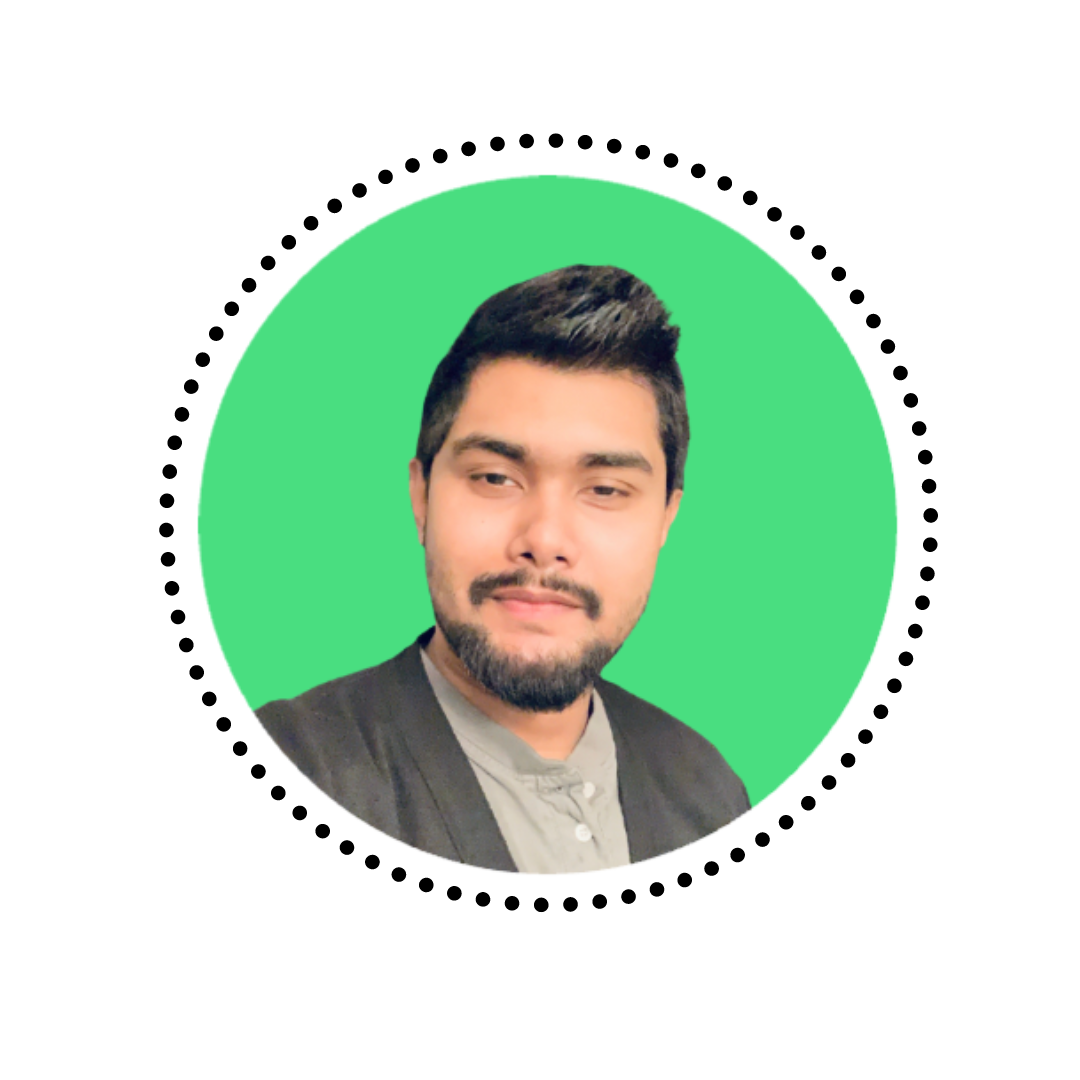
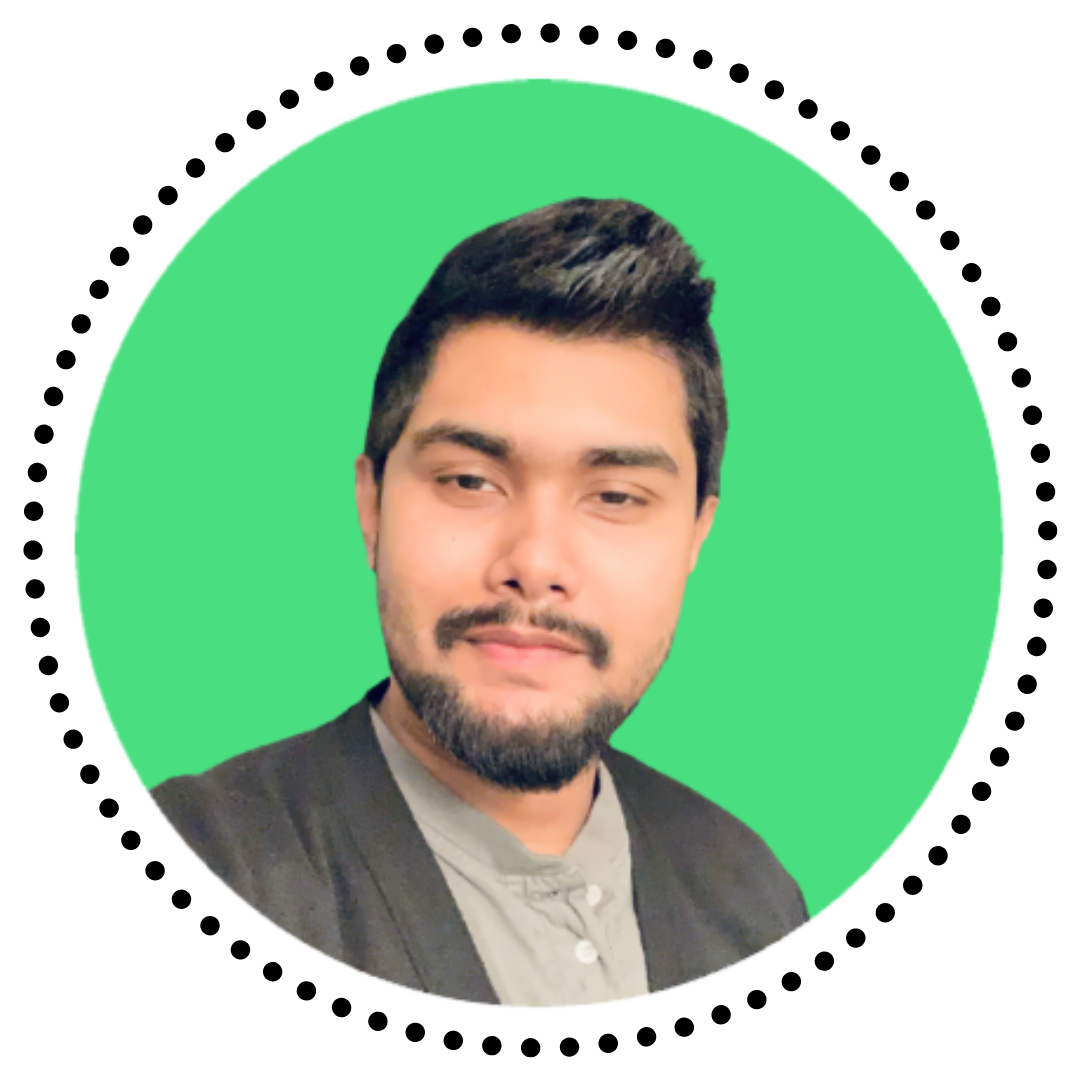
optimized the website for mobile,desktop and tablet

diff --git a/src/Components/Toolbox/Toolbox.jsx b/src/Components/Toolbox/Toolbox.jsx
@@ -17,12 +17,12 @@ AOS.init();
 function Toolbox() {
   return (
     <section
-      className="flex justify-between flex-col border-2"
+      className="flex justify-between flex-col border-2 tablet:w-[588px] mx-auto desktop:w-[50rem] desktop:h-[20rem]"
       data-aos="zoom-in-up"
       id="Toolbox"
     >
       <div className="border-2 border-b-4 flex flex-row justify-between">
-        <h2 className="text-white text-base ml-1">/skills & Tools</h2>
+        <h2 className="text-white text-base ml-1 ">/skills & Tools</h2>
         <div className="flex flex-row justify-center items-center">
           <div className="w-4 h-4 mr-1 border-2 rounded-full border-green-500 hover:bg-green-500"></div>
           <div className="w-4 h-4 mr-1 border-2 rounded-full border-gray-500 hover:bg-gray-500"></div>
@@ -30,17 +30,50 @@ function Toolbox() {
         </div>
       </div>
       <div className="flex flex-wrap justify-between flex-row m-6">
-        <Html5logo className="w-14  h-14 m-[1rem] " fill="white" />
-        <Tailwindcss className="w-14  h-14 m-[1rem] " fill="white" />
-        <Sass className="w-14  h-14 m-[1rem] " fill="white" />
-        <Javascript className="w-14  h-14 m-[1rem] " fill="white" />
-        <Reactlogo className="w-14  h-14 m-[1rem] " fill="white" />
-        <Storybook className="w-14  h-14 m-[1rem] " fill="white" />
-        <Mysql className="w-14  h-14 m-[1rem] " fill="white" />
-        <Mongodb className="w-14  h-14 m-[1rem] " fill="white" />
-        <Nodedotjs className="w-14  h-14 m-[1rem] " fill="white" />
-        <Expresslogo fill="white" className="w-14 h-14 m-[1rem]" />
-        <Github className="w-14  h-14 m-[1rem] " fill="white" />
+        <Html5logo
+          className="w-14  h-14 desktop:w-20 desktop:h-20  m-[1rem] "
+          fill="white"
+        />
+        <Tailwindcss
+          className="w-14  h-14 desktop:w-20 desktop:h-20  m-[1rem] "
+          fill="white"
+        />
+        <Sass
+          className="w-14  h-14 desktop:w-20 desktop:h-20  m-[1rem] "
+          fill="white"
+        />
+        <Javascript
+          className="w-14  h-14 desktop:w-20 desktop:h-20  m-[1rem] "
+          fill="white"
+        />
+        <Reactlogo
+          className="w-14  h-14 desktop:w-20 desktop:h-20  m-[1rem] "
+          fill="white"
+        />
+        <Storybook
+          className="w-14  h-14 desktop:w-20 desktop:h-20  m-[1rem] "
+          fill="white"
+        />
+        <Mysql
+          className="w-14  h-14 desktop:w-20 desktop:h-20  m-[1rem] "
+          fill="white"
+        />
+        <Mongodb
+          className="w-14  h-14 desktop:w-20 desktop:h-20  m-[1rem] "
+          fill="white"
+        />
+        <Nodedotjs
+          className="w-14  h-14 desktop:w-20 desktop:h-20  m-[1rem] "
+          fill="white"
+        />
+        <Expresslogo
+          fill="white"
+          className="w-14 h-14  desktop:w-20 desktop:h-20 m-[1rem]"
+        />
+        <Github
+          className="w-14  h-14 desktop:w-20 desktop:h-20  m-[1rem] "
+          fill="white"
+        />
       </div>
     </section>
   );

diff --git a/src/Components/NavBar/NavBar.jsx b/src/Components/NavBar/NavBar.jsx
@@ -4,7 +4,7 @@ import { HashLink } from "react-router-hash-link";
 
 function NavBar() {
   return (
-    <header className="flex flex-col justify-between items-center ">
+    <header className="flex flex-col justify-between items-center tablet:flex-row">
       <img
         className="w-14 h-14 animate-pulse"
         alt="main logo"
@@ -13,19 +13,19 @@ function NavBar() {
       <div className="flex justify-between flex-row items-center space-x-1.5">
         <ul className="flex justify-center flex-row items-center">
           <HashLink to="#About" smooth>
-            <li className="text-base text-white group transition duration-300 mr-4">
+            <li className="text-sm tablet:text-base text-white group transition duration-300 mr-4">
               About
               <span class="block max-w-0 group-hover:max-w-full transition-all duration-500 h-1 bg-green-500"></span>
             </li>
           </HashLink>
           <HashLink to="#Toolbox" smooth>
-            <li className="text-base text-white group transition duration-300 mr-4">
-              Toolbox
+            <li className="text-sm tablet:text-base text-white group transition duration-300 mr-4">
+              Projects
               <span class="block max-w-0 group-hover:max-w-full transition-all duration-500 h-1 bg-gray-500"></span>
             </li>
           </HashLink>
           <HashLink to={"#Contact"} smooth>
-            <li className="text-base text-white group transition duration-300 ">
+            <li className="text-sm tablet:text-base text-white group transition duration-300 ">
               Contact
               <span class="block max-w-0 group-hover:max-w-full transition-all duration-500 h-1 bg-red-500"></span>
             </li>

diff --git a/src/Components/Hero/Hero.jsx b/src/Components/Hero/Hero.jsx
@@ -4,21 +4,21 @@ import WalidPfp from "../../Assets/WalidPfp.png";
 function Hero() {
   return (
     <section
-      className="flex flex-col flex-col-reverse mb-8 lg:flex-row  lg:justify-center lg:mt-32 lg:mb-48 md:my-12  md:items-center"
+      className="flex flex-col tablet:flex-row tablet:mt-32 tablet:mb-44 justify-center desktop:space-x-8 items-center flex-col-reverse mb-40 mt-16  desktop:mb-44 desktop:mt-36"
       id="About"
     >
-      <div className="flex flex-col justify-center items-center">
-        <h1 className="text-xl text-white tracking-tighter lg:w-[30rem] text-center">
+      <div className="flex flex-col justify-center items-center mt-4">
+        <h1 className="text-xl tablet:text-2xl desktop:text-4xl text-white tracking-tighter text-center">
           Hello! I am Walid Rahim.
         </h1>
-        <p className="text-sm text-white lg:mt-2 tracking-tighter w-[20rem] text-center">
+        <p className="text-sm tablet:text-base desktop:text-lg text-white tracking-tighter desktop:tracking-normal w-[20rem] tablet:w-[25rem] desktop:w-[31rem] text-center">
           I am a full-stack Web Developer with a background in Design and
           Marketing. Self-taught programmer, Bootcamp grad, and computer science
           enthusiast.
         </p>
       </div>
       <img
-        className="w-34 h-30 md:w-50 md:h-50"
+        className="w-[12rem] h-[12rem] tablet:w-[16rem] tablet:h-[16rem] desktop:w-[24rem] desktop:h-[24rem]"
         src={WalidPfp}
         alt="Picture of the developer"
       ></img>

diff --git a/src/Components/Projects/Projects.jsx b/src/Components/Projects/Projects.jsx
@@ -8,7 +8,7 @@ AOS.init();
 function Projects() {
   return (
     <section
-      className="flex justify-between flex-col border-2 mt-8"
+      className="flex justify-between w-[323px] tablet:w-[588px] flex-col border-2 mx-auto mt-12 desktop:w-[50rem] desktop:h-[22rem]"
       data-aos="zoom-in-up"
     >
       <div className="border-2 border-b-4 flex flex-row justify-between">
@@ -19,17 +19,17 @@ function Projects() {
           <div className="w-4 h-4 mr-1 border-2 rounded-full border-red-700 hover:bg-red-700"></div>
         </div>
       </div>
-      <div className="flex flex-wrap flex-row justify-between items-center m-6">
+      <div className="flex flex-wrap flex-row justify-around tablet:justify-between mx-auto desktop:mb-auto  items-center w-[323px] tablet:w-auto">
         {appData.map((value) => {
           return (
             <a
-              className="flex flex-col justify-center items-center w-20 h-30 m-[1rem]"
+              className="flex flex-col justify-center items-center w-20 h-30 m-[1rem] desktop:m-[1.7rem]"
               href={value.link}
               target={"_blank"}
               id={value.id}
             >
               <img
-                className="w-12  h-12 self-center"
+                className="w-12  h-12 self-center desktop:w-20 desktop:h-20"
                 src={Folder}
                 alt="folder icon"
               />

diff --git a/src/Components/Sayhello/Sayhello.jsx b/src/Components/Sayhello/Sayhello.jsx
@@ -2,9 +2,9 @@ import React from "react";
 function Sayhello() {
   return (
     <div className="flex justify-center" id="Contact">
-      <section className="flex justify-between flex-col border-2 my-20 h-56 w-[326px]">
+      <section className="flex justify-between flex-col border-2 my-12 h-56 w-[326px] tablet:w-[400px] desktop:w-[28rem]">
         <div className="border-2 border-b-4 flex flex-row justify-between">
-          <h2 className="text-white text-lg ml-1">/Get in Touch</h2>
+          <h2 className="text-white text-base ml-1">/Get in Touch</h2>
           <div className="flex flex-row justify-center items-center">
             <div className="w-4 h-4 mr-1 border-2 rounded-full  border-green-500 hover:bg-green-500"></div>
             <div className="w-4 h-4 mr-1 border-2 rounded-full border-gray-500 hover:bg-gray-500"></div>
@@ -12,7 +12,7 @@ function Sayhello() {
           </div>
         </div>
         <div className="flex justify-center flex-col align-center flex-grow m-6">
-          <h3 className="text-white text-center mb-4 text-sm">
+          <h3 className="text-white tablet:text-base text-center mb-4 text-sm">
             Want to work together or have any questions?
           </h3>
           <button
